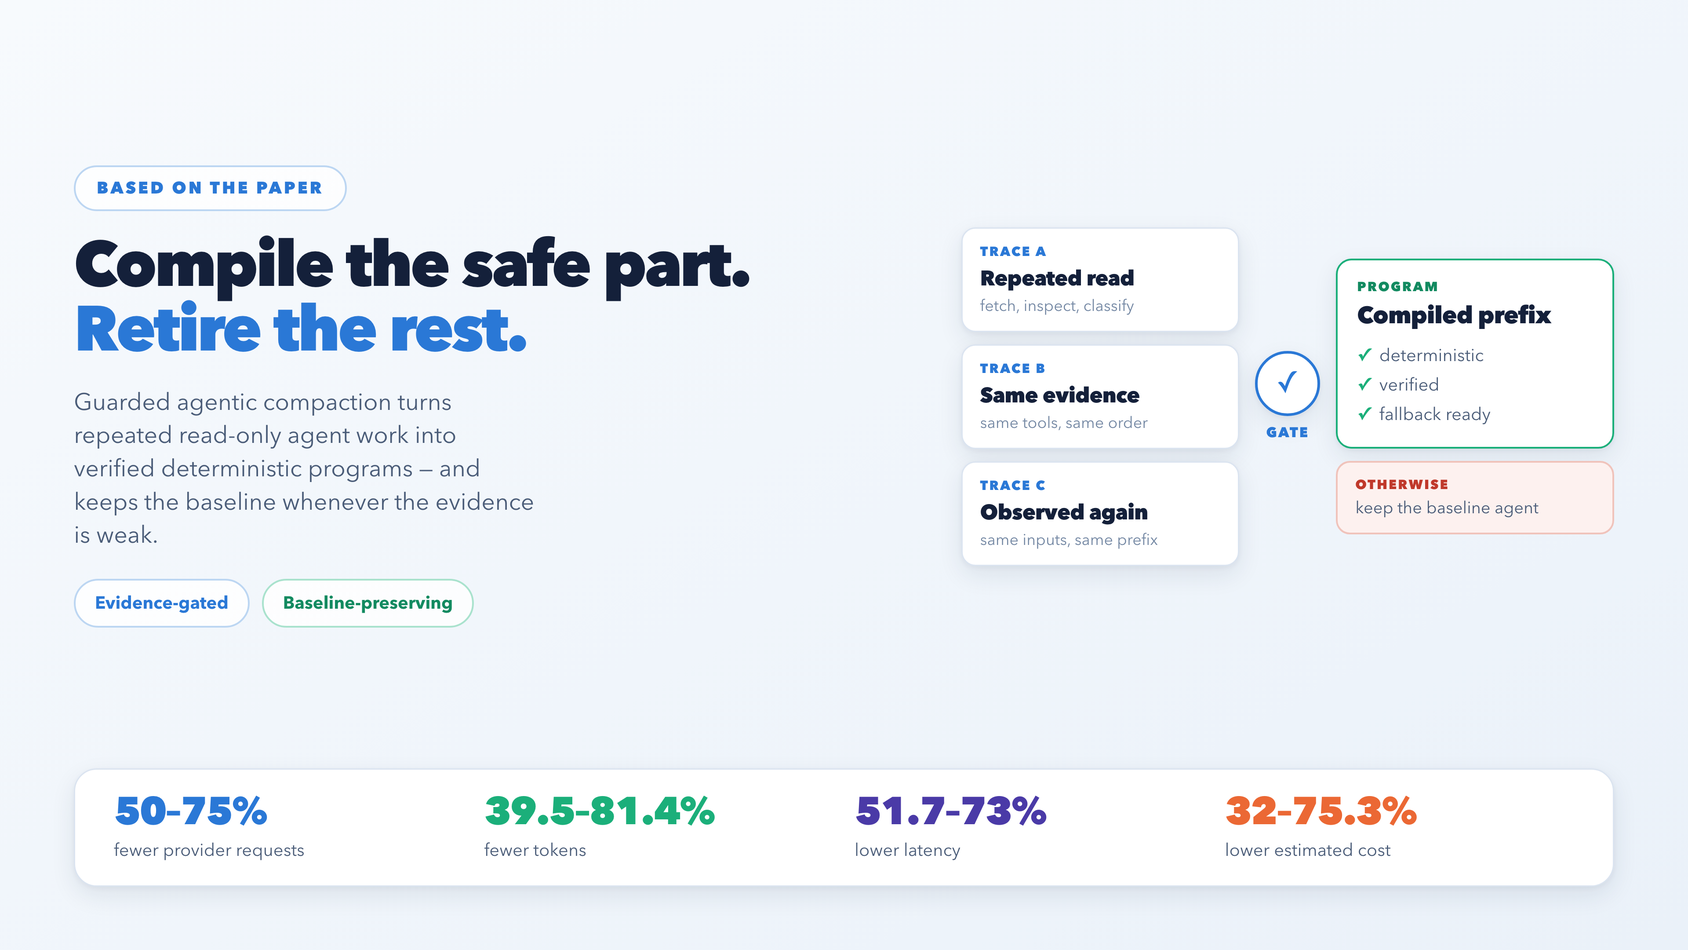
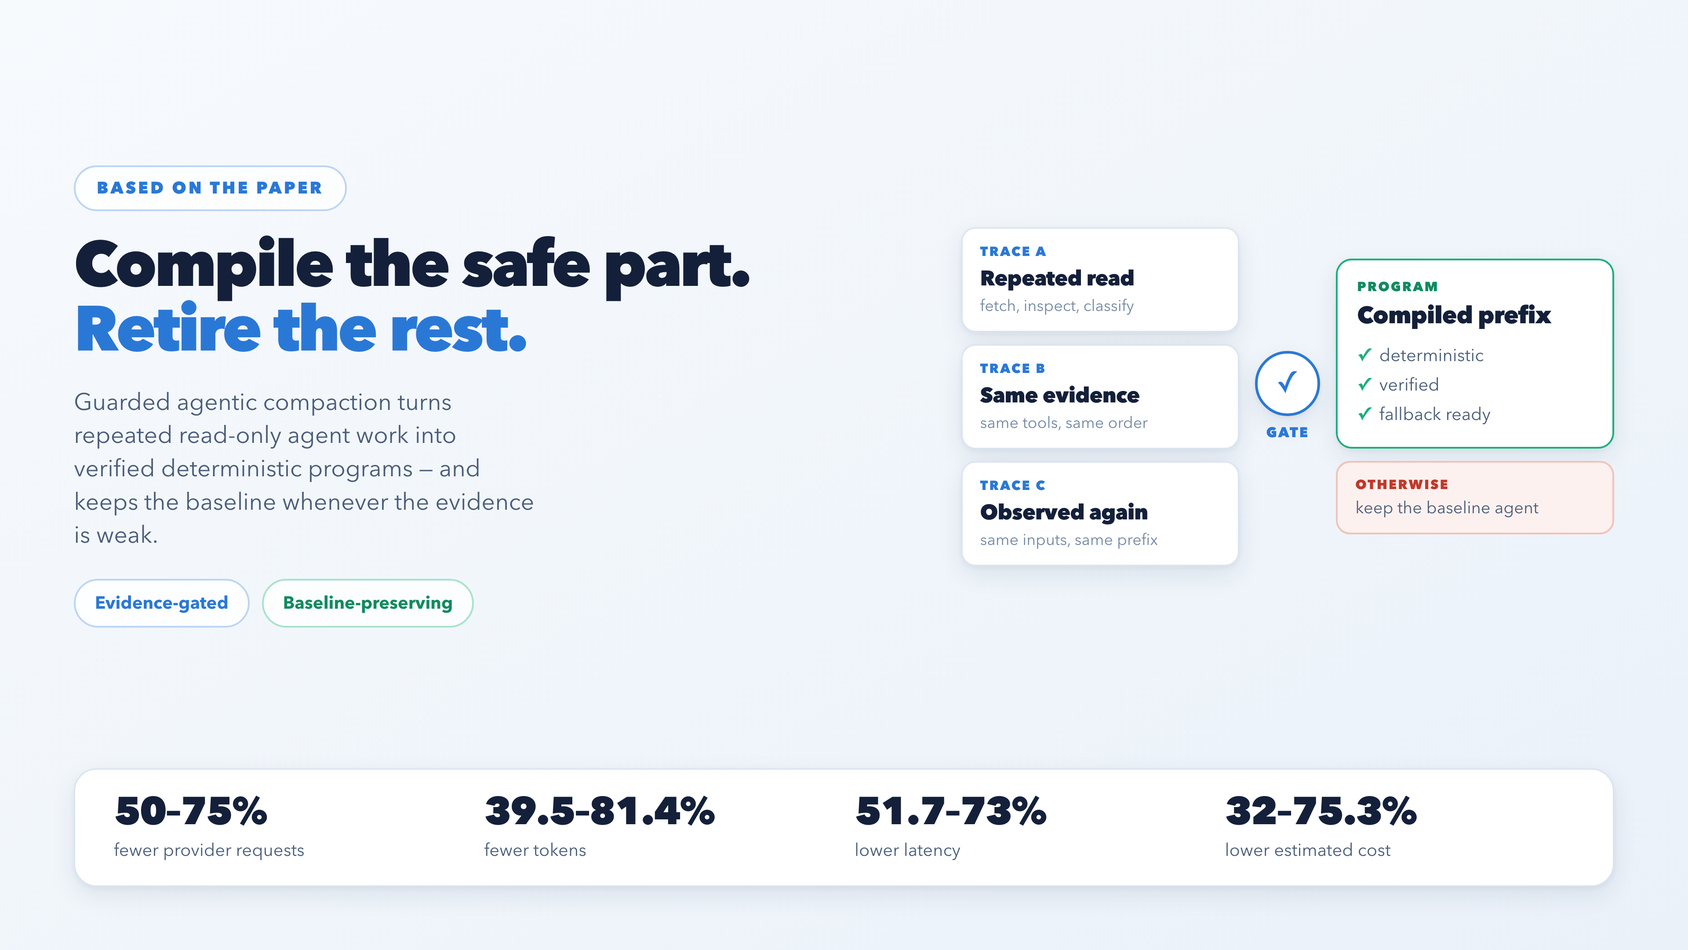
Rework the LinkedIn package: lead with the refusal result, fix a palette collision
The figures were already strong; the writing and the distribution plan were not.

Article. Rewritten to lead with the finding that actually distinguishes this work
-- a compiler that synthesized programs, replayed them with zero wrong executions,
and then admitted none of them -- rather than with efficiency numbers that tie
with a hand-written program. The first two lines now carry the hook, because that
is all LinkedIn shows before "see more". Paragraphs are short enough to survive a
phone screen, the load-bearing caveats survive intact, and it closes on a question
instead of a summary. 796 words, down from a denser 1,100.

Distribution. Adds LinkedIn_Post.md, which was the real gap: a LinkedIn article
gets almost no organic reach without a feed post pointing at it. Three variants
(refusal hook, cost hook, short reshare), the first comment that carries the link,
and the mechanics that matter more than the wording -- link in the first comment
rather than the body, hero image attached, reply window in the first two hours.

Palette. --series-3 was #1baf7a, byte-identical to --admit, so green meant
"backlog-attention family" in the results chart and "admitted" in the hero and the
refusal figure. A reader carrying meaning between figures was being misled, and
README.md claimed the opposite -- that semantic colours are never reused as series
colours. Re-stepped to violet #6a4fc9, which also validates better: all six checks
[…]

diff --git a/paper/LinkedIn_Article/images/src/01_hero.html b/paper/LinkedIn_Article/images/src/01_hero.html
@@ -102,10 +102,10 @@
   </div>
 
   <div class="metrics">
-    <div><div class="n" style="color:var(--series-1)">50&ndash;75%</div><div class="l">fewer provider requests</div></div>
-    <div><div class="n" style="color:var(--series-3)">39.5&ndash;81.4%</div><div class="l">fewer tokens</div></div>
-    <div><div class="n" style="color:#4a3aa7">51.7&ndash;73%</div><div class="l">lower latency</div></div>
-    <div><div class="n" style="color:var(--series-2)">32&ndash;75.3%</div><div class="l">lower estimated cost</div></div>
+    <div><div class="n" style="color:var(--ink)">50&ndash;75%</div><div class="l">fewer provider requests</div></div>
+    <div><div class="n" style="color:var(--ink)">39.5&ndash;81.4%</div><div class="l">fewer tokens</div></div>
+    <div><div class="n" style="color:var(--ink)">51.7&ndash;73%</div><div class="l">lower latency</div></div>
+    <div><div class="n" style="color:var(--ink)">32&ndash;75.3%</div><div class="l">lower estimated cost</div></div>
   </div>
 
 </body></html>

diff --git a/paper/LinkedIn_Article/images/src/base.css b/paper/LinkedIn_Article/images/src/base.css
@@ -25,7 +25,12 @@
   /* validated categorical slots (identity) */
   --series-1:    #2a78d6;  /* blue   - Issue-type routing */
   --series-2:    #eb6834;  /* orange - PR-outcome audit  */
-  --series-3:    #1baf7a;  /* aqua   - Backlog-attention */
+  --series-3:    #6a4fc9;  /* violet - Backlog-attention */
+  /* series-3 was #1baf7a, byte-identical to --admit below. Green therefore meant
+     "backlog-attention family" in the results chart and "admitted" in the hero and
+     refusal figures, so a reader carrying meaning between figures was misled. Violet
+     keeps the semantic slot reserved and validates better: worst adjacent normal-vision
+     dE 33.0 and >= 3:1 contrast, where the aqua sat at 2.74:1 on a warning. */
 
   /* semantic (state, never reused for a series) */
   --refuse:      #c0392b;

diff --git a/paper/LinkedIn_Article/LinkedIn_Article_Polished.md b/paper/LinkedIn_Article/LinkedIn_Article_Polished.md
@@ -1,59 +1,103 @@
-# When AI Agents Repeat Themselves: Compile the Safe Part, Retire the Rest
+# We Built a Compiler for AI Agents. Its Most Useful Result Was Refusing to Ship
 
-*How guarded agentic compaction turns recurring read-only agent work into verified deterministic programs*
+*What happens when you hold agent optimization to the standard we hold everything else to: evidence.*
 
 ![Cover: repeated traces pass through a gate that either emits a verified compiled prefix or keeps the baseline agent, with headline reductions of 50-75% requests, 39.5-81.4% tokens, 51.7-73% latency and 32-75.3% cost](images/01_hero.png)
 
-## Why repeated agent loops get expensive
+Your agent calls a model. The model calls a tool. The tool returns, and the agent calls the model again — to decide the thing it decided the same way yesterday, and the day before.
 
-Tool-using agents are strong at solving new problems, but many production workflows become repetitive. The same read-only evidence gathering steps show up again and again: fetch a record, inspect a label, read comments, classify an item, and then ask the model for another decision. Every repeated model turn adds latency, token usage, and cost.
+That loop is the right design when a workflow is new. At scale it becomes the most expensive way to re-derive a conclusion you already have.
 
-That sounds like caching, but it is not. A later tool argument may depend on a previous observation, a nominally read-only step may still have a hidden side effect, and a workflow that looks safe in one trace can fail under a different permission, freshness, or contract constraint. In other words, speed is only useful when the faster path is still the right path.
+The obvious fix is to replace the repeated part with code. The non-obvious problem is knowing **which** part you are allowed to replace.
 
-## What guarded agentic compaction does
+## Why this is not a caching problem
 
-The paper introduces guarded agentic compaction (GAC), a trace-to-program compiler that looks for recurrent read-only prefixes and converts only the supported part into deterministic code. Everything that the evidence does not determine stays with the model.
+It looks like caching. It isn't.
 
-The key design choice is conservative by construction: the default outcome is refusal. GAC compiles a prefix only when typed provenance, effect declarations, manifest compatibility, bounded synthesis, verification, and finite-sample admission all line up. If any part is missing, the baseline agent remains unchanged.
+A later tool argument may depend on an earlier observation. A nominally read-only step may carry a hidden side effect. A prefix that replayed perfectly in a hundred traces can still be wrong under a different permission scope, a staleness window, or a contract you never wrote down.
+
+Speed only counts when the faster path is still the *right* path. So we built the compiler that assumes it usually isn't.
+
+## Guarded agentic compaction, in one line
+
+**GAC** is a trace-to-program compiler that converts recurring read-only agent work into deterministic code — and refuses by default.
+
+It compiles a prefix only when typed provenance, effect declarations, manifest compatibility, bounded synthesis, verification, and finite-sample admission *all* line up. Miss any one and the unchanged agent keeps running.
+
+Refusal isn't the failure mode. It's the normal output.
 
 ![Five-stage cascade from capture to admit, each stage labelled with the condition that makes it refuse, above a band listing the hard barriers no evidence can override](images/02_pipeline.png)
 
-## What the experiments showed
+## What it saved, and what that cost to learn
 
-Across three public-record GitHub workflow families with live provider calls, the compiled system matched 90/90 exact outcomes, the unchanged agent reached 89/90, and a hand-written program also reached 90/90. The paper's claim is therefore not universal superiority. It is automated discovery, guarded admission, and disciplined fallback.
+Across three public-record GitHub workflow families with live provider calls:
 
-The averages are the least interesting part. What matters is the spread: the issue-type family admits only a shallow two-read prefix and saves least, while the two deeper families approach the ceiling of what the workload allows. Admissible depth sets the savings, not the optimizer.
+- **50–75%** fewer provider requests
+- **39.5–81.4%** fewer tokens
+- **51.7–73%** lower observed latency
+- **32–75.3%** lower estimated cost
+
+Quality held: compiled programs passed **90/90** exact held-out contracts against **89/90** for the unchanged agent.
+
+Here is the part most write-ups would bury. A **hand-written** program also reached 90/90.
+
+So the contribution is not that the compiler beats a careful engineer. It doesn't. It's that the compiler *finds* the opportunity automatically and refuses to ship the ones it can't license — at a stated risk level, without a human reading every trace.
+
+The averages are also the least interesting number. Look at the spread: the issue-type family admits only a shallow two-read prefix and saves least, while the two deeper families run near the ceiling the workload allows. **Admissible depth sets the savings, not the optimizer.**
 
 ![Grouped bar chart of reduction versus the unchanged agent across three workflow families and five metrics, showing issue-type routing consistently lowest and the two deeper families near 75-81%](images/03_results.png)
 
-## When the compiler refuses
+## The result I did not expect
 
-The most useful result is the one where nothing ships. On the NESTFUL and API-Bank benchmarks, GAC recovers provenance, synthesizes programs, and replays them on held-out data with **zero wrong executions** — and then admits nothing at all, because the largest recurrent family is backed by 26 groups of evidence where the risk bound needs 92.
+On two public benchmarks — NESTFUL and API-Bank — the compiler recovered provenance, synthesized programs, and replayed them on held-out data with **zero wrong executions**.
 
-That is the whole thesis in one number. Recurrence is a property of a trace. Admissibility is a property of the evidence. A system that shipped on the first two stages alone would have deployed twelve artifacts it could not certify.
+Then it admitted nothing at all.
+
+Every recurrent family retired. The largest was backed by 26 groups of evidence where the risk bound required 92.
+
+That single comparison is the whole thesis:
+
+> **Recurrence is a property of a trace. Admissibility is a property of the evidence.**
+
+A system that shipped on synthesis-plus-replay alone would have deployed twelve artifacts it could not certify — and every one of them would have *looked* fine in testing.
 
 ![Stage-by-stage table showing NESTFUL and API-Bank clearing every compiler stage with zero wrong executions, beside a bar chart where both families' support falls far below the 92-group requirement](images/04_refusal.png)
 
-## How this differs from context compression
+## "Isn't this just context compression?"
 
-A reasonable question is whether this is just compression by another name. It is not, and the distinction is worth stating plainly. Context-compression middleware such as [Headroom](https://github.com/headroomlabs-ai/headroom) shrinks what goes *into* a call, reporting large token reductions on similar workloads. It never removes a model turn, so it cannot reduce provider requests at all. Guarded agentic compaction removes the turn and leaves the payload alone.
+Fair question, and no.
 
-The two compose. The honest caveat is that the numbers above compare against an uncompressed baseline, so the token reduction should be read as the part attributable to removing model boundaries.
+Context-compression middleware such as [Headroom](https://github.com/headroomlabs-ai/headroom) shrinks what goes *into* a call. It reports large token reductions on similar workloads — but it never removes a model turn, so it cannot reduce provider requests at all.
+
+Compaction removes the turn and leaves the payload alone. Different axis, and the two compose.
+
+The honest caveat: our numbers compare against an *uncompressed* baseline, so read the token reduction as the part attributable to removing model boundaries.
 
 ![Side-by-side comparison: compaction greys out model turns while keeping payload sizes, compression keeps every turn while shrinking payloads, with a band noting the uncompressed-baseline caveat](images/05_compaction_vs_compression.png)
 
-## What the results do not claim
+## What we are not claiming
 
-The paper is careful not to overstate. It does not claim semantic equivalence, production certification, automatic API fusion, or universal superiority over hand-written code.
+No semantic equivalence. No production certification. No automatic API fusion. No universal superiority over code a competent engineer would write.
 
-> Traces establish recurrence, not admissibility.
+We also ran a bounded trial of a learned prompt optimizer on the same workload. It spent 59 provider requests and selected no change. We reported that too.
 
-## Practical takeaway
+## The takeaway for anyone shipping agents
 
-For teams building AI agents, the lesson is simple but useful: do not optimize every boundary. Optimize only the boundaries that can be licensed by evidence, and preserve the baseline everywhere else. That keeps the system fast where it can be fast and honest where it must remain flexible.
+Don't optimize every boundary. Optimize the boundaries evidence can license, and preserve the baseline everywhere else.
+
+And when you evaluate an agent optimizer — yours or a vendor's — ask the question the benchmark won't:
+
+**What does it refuse to do, and what happens when it's wrong?**
+
+An optimizer that never declines isn't confident. It's unmeasured.
 
 ![Three cards summarising what guarded agentic compaction keeps with the model, what it shifts to deterministic code, and what it refuses to ship](images/06_takeaway.png)
 
 ---
 
-Based on the paper *From Traces to Guarded Programs: Evidence-Gated Compilation of Recurrent Agent Workflows* by Reza Rahimi.
+**The full paper**, code, data manifests, and every retired candidate are open:
+[github.com/rrahimi-uci/guarded-agentic-compaction](https://github.com/rrahimi-uci/guarded-agentic-compaction)
+
+*From Traces to Guarded Programs: Evidence-Gated Compilation of Recurrent Agent Workflows* — Reza Rahimi, JazzX AI.
+
+**Curious where others land:** if you're running agents in production, what share of your model turns do you think are genuinely re-deriving a known answer? I'd guess most teams are surprised by the number.

diff --git a/paper/LinkedIn_Article/LinkedIn_Post.md b/paper/LinkedIn_Article/LinkedIn_Post.md
@@ -1,0 +1,89 @@
+# Companion feed posts
+
+A LinkedIn article gets very little organic distribution on its own — the feed post
+that points at it is what actually travels. These are ready to paste.
+
+**Mechanics that matter more than the wording:**
+
+- The first ~200 characters are all that shows before "…see more". Everything below
+  that line has to earn the click, so no preamble and no throat-clearing.
+- Put the article link in the **first comment**, not the post body. A post with an
+  outbound link in the body is served to fewer people; posting the link as your own
+  first comment costs nothing and keeps reach.
+- Attach `images/01_hero.png` to the post itself. An image post outperforms a bare
+  link preview, and the hero already carries the headline numbers.
+- Three to five hashtags, at the end, not sprinkled inline.
+- Reply to every comment in the first two hours. That window sets how far it goes.
+
+---
+
+## Post A — the refusal hook (recommended)
+
+> We built a compiler that turns repeated AI-agent work into deterministic code.
+>
+> On two public benchmarks it recovered the logic, synthesized the programs, replayed them on held-out data with zero wrong executions —
+>
+> and then refused to ship a single one.
+>
+> Every recurrent family retired. The largest had 26 groups of supporting evidence where the risk bound needed 92.
+>
+> That gap is the whole finding. Recurrence is a property of a trace. Admissibility is a property of the evidence. A system that shipped on "it replayed correctly" would have deployed twelve artifacts it could not certify — and all twelve would have looked fine in testing.
+>
+> Where the evidence *did* hold, on three live GitHub workflows: 50–75% fewer provider requests, 39.5–81.4% fewer tokens, quality holding at 90/90 exact outcomes.
+>
+> The part I'd normally be tempted to leave out: a hand-written program also hit 90/90. So the contribution isn't beating a good engineer. It's finding the opportunity automatically and declining the ones it can't license.
+>
+> Full paper, code, and every retired candidate are open. Link in the comments.
+>
+> \#AIAgents #LLMOps #MachineLearning #SoftwareEngineering #AIEngineering
+
+## Post B — the cost hook
+
+> Most teams running AI agents are paying a model to re-derive answers it already has.
+>
+> Your agent calls a model, the model calls a tool, the tool returns — and the agent calls the model again to decide the thing it decided the same way yesterday.
+>
+> That loop is correct when a workflow is new. At scale it's the most expensive way to reach a conclusion you already reached.
+>
+> We compiled the repeated read-only part into deterministic code and measured it on three live GitHub workflows: 50–75% fewer provider requests, 39.5–81.4% fewer tokens, 32–75.3% lower cost, quality holding at 90/90.
+>
+> The hard part wasn't the speedup. It was proving which part we were *allowed* to replace — a later argument can depend on an earlier observation, and a "read-only" step can carry a side effect nobody declared.
+>
+> So the compiler refuses by default. On two public benchmarks it refused everything, and that turned out to be the most useful result in the paper.
+>
+> Link in the comments.
+>
+> \#AIAgents #LLMOps #AIEngineering #MLOps #SoftwareArchitecture
+
+## Post C — short, for reshares
+
+> An AI-agent optimizer that never declines isn't confident. It's unmeasured.
+>
+> We built a trace-to-program compiler whose normal output is refusal. On two public benchmarks it synthesized programs that replayed with zero wrong executions — then admitted none of them, because 26 groups of evidence don't clear a bound that needs 92.
+>
+> Where the evidence held: 50–75% fewer provider requests at 90/90 exact outcomes.
+>
+> Paper and code in the comments.
+>
+> \#AIAgents #LLMOps #AIEngineering
+
+---
+
+## First comment (all three variants)
+
+> Paper, code, data manifests, and every retired candidate:
+> https://github.com/rrahimi-uci/guarded-agentic-compaction
+>
+> The article walks through why compaction and context compression are different axes, and where this approach stops working.
+
+## Claim hygiene
+
+The same two statements are load-bearing in the posts as in the article, and neither
+survives being trimmed for length:
+
+- Hand-written programs also reach 90/90, so the contribution is automated discovery
+  and calibrated admission — not universal superiority.
+- The reported reductions compare against an *uncompressed* baseline.
+
+Post C omits the hand-written comparison for length. That is acceptable only because
+it makes no superiority claim to qualify; if you add one, add the caveat with it.

diff --git a/paper/LinkedIn_Article/README.md b/paper/LinkedIn_Article/README.md
@@ -1,8 +1,19 @@
 # LinkedIn Article Package
 
-`LinkedIn_Article_Polished.md` is the canonical article source. The `.docx` and
-`.pdf` in this folder are legacy exports from an earlier package and no longer
-match the markdown.
+| File | What it is |
+| --- | --- |
+| `LinkedIn_Article_Polished.md` | the article — canonical source |
+| `LinkedIn_Post.md` | companion feed posts, three variants, plus the first comment |
+| `LINKEDIN_PUBLICATION_NOTES.md` | how to upload it |
+| `images/` | six figures, HTML sources, and the shared design system |
+
+There is no `.docx` or `.pdf` in this folder. Earlier exports were removed because
+they had drifted to a superseded image set and the old paper title, which made it
+possible to publish from the wrong file. Regenerate on demand — see *Exporting*.
+
+The article alone is not the deliverable. A LinkedIn article gets very little
+organic distribution without a feed post pointing at it, which is what
+`LinkedIn_Post.md` is for.
 
 ## Figures
 
@@ -58,13 +69,20 @@ LaTeX engine exits zero without producing a file on this document.
 `images/src/base.css` holds the whole system. Two rules matter:
 
 - **Colour encodes identity, not magnitude.** The three chart series use
-  validated categorical slots 1–3 (blue `#2a78d6`, orange `#eb6834`, aqua
-  `#1baf7a`) — one hue per workflow family, never per value. Validator result:
-  all checks pass; the one contrast warning on aqua (2.74:1) is discharged by
-  direct value labels on every bar.
-- **Semantic colours are reserved.** Red is refusal, green is the admitting
-  exit. They are never reused as a series colour. The earlier figures gave each
-  pipeline step its own arbitrary hue, which spent the colour channel on nothing.
+  categorical slots 1–3 (blue `#2a78d6`, orange `#eb6834`, violet `#6a4fc9`) —
+  one hue per workflow family, never per value. Validator result: all six checks
+  pass, worst adjacent normal-vision ΔE 33.0, and every slot clears 3:1 against
+  the surface.
+- **Semantic colours are reserved.** Red is refusal, green is the admitting exit.
+  They are never reused as a series colour. This was not true until recently:
+  `--series-3` was `#1baf7a`, byte-identical to `--admit`, so green meant
+  "backlog-attention family" in `03_results` and "admitted" in the hero and the
+  refusal figure. Violet fixes the collision and validates better — the aqua sat
+  on a 2.74:1 contrast warning that direct labels had to discharge.
+- **Headline numbers wear ink, not series colour.** The hero's four KPI figures
+  were painted in the categorical hues, which made blue mean "issue-type family"
+  in the results chart and "provider requests" in the hero. They are `--ink` now;
+  the colour channel is spent only where identity actually exists.
 
 ## Archive
 

diff --git a/paper/LinkedIn_Article/LINKEDIN_PUBLICATION_NOTES.md b/paper/LinkedIn_Article/LINKEDIN_PUBLICATION_NOTES.md
@@ -4,6 +4,19 @@ Operational notes for publishing the article. The figure inventory and the
 regeneration command live in [README.md](README.md); this file covers only the
 upload itself.
 
+## Publish in this order
+
+1. **Publish the article** (below). Nobody sees it yet — LinkedIn does not push
+   articles into the feed.
+2. **Post the feed post** from [LinkedIn_Post.md](LinkedIn_Post.md) with
+   `images/01_hero.png` attached and **no link in the body**.
+3. **Add the article link as your own first comment**, immediately.
+4. **Stay for two hours** and reply to every comment. That window decides the
+   reach; nothing you do on day two recovers a flat first hour.
+
+Step 2 is not optional polish. An article without a companion post reaches
+roughly the people who already visit your profile.
+
 ## What to publish
 
 - **Article text:** `LinkedIn_Article_Polished.md` is canonical. Paste the prose
@@ -13,6 +26,9 @@ upload itself.
 - **Body images:** `02_pipeline`, `03_results`, `04_refusal`,
   `05_compaction_vs_compression`, `06_takeaway`, inserted at the section each
   one follows in the markdown.
+- **Feed post:** one of the three variants in `LinkedIn_Post.md`. Post A leads
+  with the refusal result and is the recommended default; B leads with cost for
+  a more operational audience; C is short enough to be reshared.
 
 ## Alt text
 
@@ -40,9 +56,16 @@ Two statements in the article are load-bearing and should not be softened by
 editing for length:
 
 - Hand-written programs also reach 90/90, so the contribution is automated
-  discovery and guarded admission — not universal superiority.
+  discovery and calibrated admission — not universal superiority.
 - The reported reductions compare against an *uncompressed* baseline, so the
   token number is the part attributable to removing model boundaries.
 
 Both mirror limitations stated in the paper. Dropping either would make the
-article claim more than the evidence supports.
+article claim more than the evidence supports. The same two apply to the feed
+posts; `LinkedIn_Post.md` records which variant omits which, and why that is
+survivable there.
+
+The article is deliberately written to make the refusal result the headline
+rather than the efficiency numbers. That ordering is a claim about what the work
+contributes, not a stylistic choice — the efficiency numbers tie with a
+hand-written program, and the refusal result does not.
